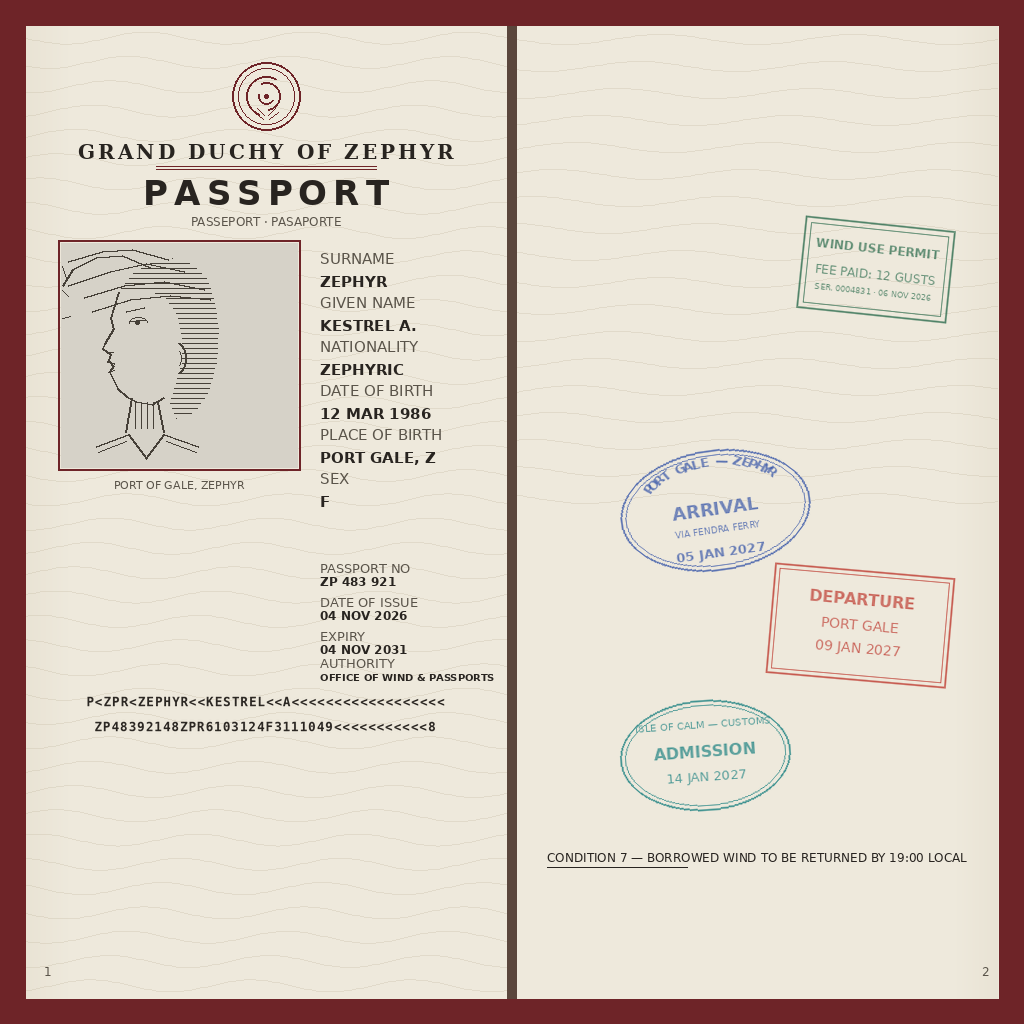
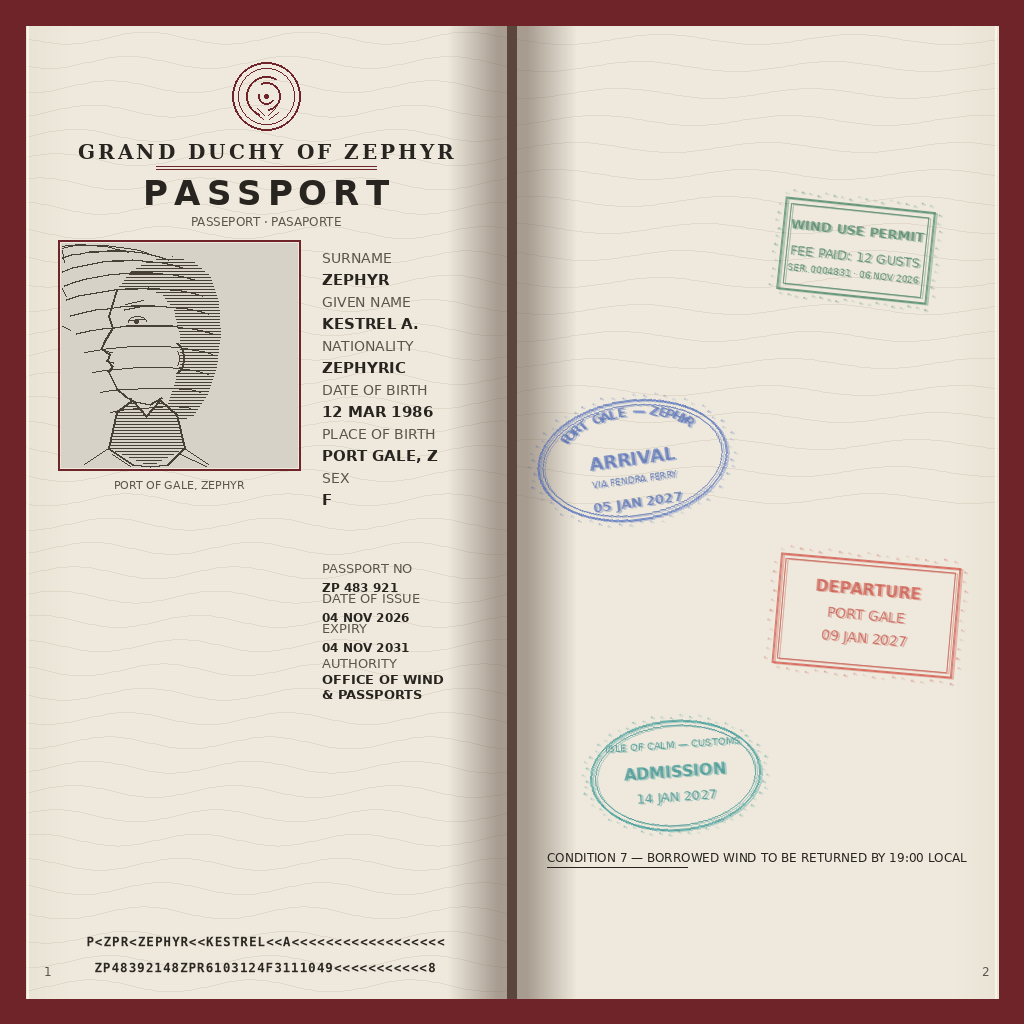
Round 2: stricter grid, engraved portrait, ink-textured stamps, open-book depth

diff --git a/gen_entry.py b/gen_entry.py
@@ -94,87 +94,119 @@ def draw_emblem(d):
         d.line([a, b], fill=MAROON, width=1)
 
 
-def draw_portrait(img):
-    d = ImageDraw.Draw(img)
+def quad_pts(p0, c, p1, n=12):
+    """Sample a quadratic Bezier curve (deterministic)."""
+    pts = []
+    for i in range(n + 1):
+        t = i / n
+        u = 1 - t
+        pts.append((u * u * p0[0] + 2 * u * t * c[0] + t * t * p1[0],
+                    u * u * p0[1] + 2 * u * t * c[1] + t * t * p1[1]))
+    return pts
 
-    # hair mass polygon: outer cranium curve, inner edge behind ear/nape
-    hair = [
-        (118, 292), (134, 272), (152, 262), (172, 258), (192, 264),
-        (206, 278), (214, 300), (218, 330), (216, 362), (208, 392),
-        (194, 412), (176, 418), (170, 402), (176, 382), (182, 362),
-        (182, 336), (176, 312), (164, 296), (146, 290), (128, 290),
-    ]
+
+def hatch_region(img, poly, y0, y1, spacing=3):
+    """Horizontal engraving hatch (1 px lines) clipped to poly."""
     mask = Image.new("L", (W, H), 0)
     md = ImageDraw.Draw(mask)
-    md.polygon(hair, fill=255)
+    md.polygon(poly, fill=255)
     hatch = Image.new("RGB", (W, H), P_BG)
     hd = ImageDraw.Draw(hatch)
-    y = 258
-    while y <= 424:
+    y = y0
+    while y <= y1:
         hd.line([(61, y), (297, y)], fill=P_INK, width=1)
-        y += 5
+        y += spacing
     img.paste(hatch, (0, 0), mask)
+
+
+def draw_portrait(img):
+    # hair mass: outer cranium curve, inner edge behind ear/nape
+    hair = [
+        (116, 290), (132, 270), (150, 260), (172, 256), (194, 262),
+        (210, 276), (218, 300), (220, 334), (216, 366), (206, 396),
+        (192, 416), (174, 422), (168, 404), (174, 384), (180, 364),
+        (180, 336), (174, 310), (162, 294), (144, 288), (126, 288),
+    ]
+    # high-collared windfarmer coat
+    collar = [
+        (116, 412), (132, 400), (146, 416), (160, 400), (176, 414),
+        (184, 448), (150, 466), (108, 448),
+    ]
+    hatch_region(img, hair, 256, 424, 3)
 
     d = ImageDraw.Draw(img)
     # face profile, facing left
     prof = [
-        (118, 292), (113, 308), (110, 318), (113, 329), (104, 344),
-        (102, 348), (110, 354), (108, 360), (113, 366), (109, 372),
-        (112, 378), (117, 388), (126, 396), (136, 401), (152, 404), (164, 397),
+        (116, 290), (111, 306), (108, 316), (112, 328), (103, 343),
+        (101, 348), (109, 354), (107, 360), (112, 366), (108, 372),
+        (111, 378), (116, 388), (125, 396), (135, 401), (150, 404), (162, 397),
     ]
     d.line(prof, fill=P_INK, width=2)
-
-    # brow and eye
-    d.line([(126, 311), (144, 307)], fill=P_INK, width=2)
-    d.line([(129, 321), (145, 319)], fill=P_INK, width=2)
-    d.arc((129, 317, 147, 327), start=160, end=360, fill=P_INK, width=1)
-    d.ellipse((135, 320, 139, 324), fill=P_INK)
-    # nostril and lips
-    d.line([(107, 352), (113, 352)], fill=P_INK, width=1)
-    d.line([(107, 361), (114, 363)], fill=P_INK, width=2)
-    d.line([(108, 372), (114, 370)], fill=P_INK, width=1)
+    # confident brow and eye
+    d.line([(124, 309), (144, 305)], fill=P_INK, width=2)
+    d.line([(125, 304), (143, 300)], fill=P_INK, width=1)
+    d.line([(128, 320), (144, 318)], fill=P_INK, width=2)
+    d.arc((128, 316, 146, 326), start=160, end=360, fill=P_INK, width=1)
+    d.ellipse((134, 319, 138, 323), fill=P_INK)
+    # nose line, nostril, lips
+    d.line([(106, 351), (112, 352)], fill=P_INK, width=1)
+    d.line([(106, 360), (113, 362)], fill=P_INK, width=2)
+    d.line([(107, 371), (113, 369)], fill=P_INK, width=1)
     # ear
-    d.arc((166, 342, 186, 374), start=-75, end=75, fill=P_INK, width=2)
-    d.arc((171, 349, 181, 367), start=-60, end=60, fill=P_INK, width=1)
-    # neck
-    d.line([(131, 398), (125, 432)], fill=P_INK, width=2)
-    d.line([(157, 402), (163, 432)], fill=P_INK, width=2)
-    for x in (135, 141, 147, 153):
-        d.line([(x, 402), (x, 428)], fill=P_INK, width=1)
-    # collar
-    d.line([(96, 446), (128, 434)], fill=P_INK, width=2)
-    d.line([(128, 434), (146, 458), (164, 434)], fill=P_INK, width=2)
-    d.line([(164, 434), (198, 446)], fill=P_INK, width=2)
-    d.line([(98, 452), (126, 441)], fill=P_INK, width=1)
-    d.line([(166, 441), (196, 452)], fill=P_INK, width=1)
+    d.arc((164, 342, 184, 374), start=-75, end=75, fill=P_INK, width=2)
+    d.arc((169, 349, 179, 367), start=-60, end=60, fill=P_INK, width=1)
+    # jaw-to-collar stubs, then collar hatching over them
+    d.line([(130, 398), (130, 402)], fill=P_INK, width=2)
+    d.line([(158, 399), (158, 402)], fill=P_INK, width=2)
+    hatch_region(img, collar, 400, 466, 3)
 
-    # wind-blown strands, flowing left
+    d = ImageDraw.Draw(img)
+    # collar outline and coat
+    d.line([(116, 412), (132, 400), (146, 416), (160, 400), (176, 414)], fill=P_INK, width=2)
+    d.line([(116, 412), (108, 448)], fill=P_INK, width=2)
+    d.line([(176, 414), (184, 448)], fill=P_INK, width=2)
+    d.line([(108, 448), (132, 464), (150, 466), (168, 464), (184, 448)], fill=P_INK, width=2)
+    d.line([(108, 448), (84, 464)], fill=P_INK, width=1)
+    d.line([(184, 448), (208, 464)], fill=P_INK, width=1)
+    d.line([(112, 454), (130, 466)], fill=P_INK, width=1)
+    d.line([(180, 454), (206, 466)], fill=P_INK, width=1)
+
+    # wind-swept hair: 12 curved strands blowing left
     strands = [
-        [(150, 268), (122, 256), (96, 258), (72, 270), (62, 286)],
-        [(168, 260), (132, 250), (102, 252), (68, 262)],
-        [(184, 272), (146, 264), (110, 272), (68, 286)],
-        [(204, 290), (164, 282), (124, 286), (84, 298)],
-        [(210, 300), (170, 296), (130, 300), (92, 312)],
+        ((168, 260), (118, 244), (62, 258), 2),
+        ((182, 268), (124, 252), (62, 272), 2),
+        ((194, 280), (132, 264), (64, 286), 2),
+        ((202, 296), (140, 280), (66, 300), 2),
+        ((208, 314), (148, 298), (70, 316), 2),
+        ((212, 334), (156, 318), (76, 334), 2),
+        ((212, 354), (162, 340), (84, 352), 1),
+        ((208, 374), (168, 362), (92, 372), 1),
+        ((200, 392), (170, 384), (100, 392), 1),
+        ((190, 408), (168, 404), (110, 412), 1),
+        ((150, 254), (104, 240), (62, 248), 1),
+        ((128, 252), (92, 242), (62, 246), 1),
     ]
-    for s in strands:
-        d.line(s, fill=P_INK, width=2)
-    for a, b in [((66, 278), (62, 266)), ((68, 296), (62, 290)), ((70, 316), (62, 318))]:
+    for p0, c, p1, wd in strands:
+        d.line(quad_pts(p0, c, p1), fill=P_INK, width=wd)
+    # flyaway wisps
+    for a, b in [((64, 262), (62, 250)), ((66, 296), (62, 288)), ((70, 330), (62, 326))]:
         d.line([a, b], fill=P_INK, width=1)
 
 
 def fee_stamp():
     layer = Image.new("RGBA", (190, 130), (0, 0, 0, 0))
     d = ImageDraw.Draw(layer)
-    c = GREEN + (170,)
+    c = GREEN + (255,)
     d.rectangle((10, 14, 160, 106), outline=c, width=2)   # 150x92
     d.rectangle((16, 20, 154, 100), outline=c, width=1)
     cx = 85
-    f1 = fit_font(d, "WIND USE PERMIT", 126, 16, "DejaVuSans-Bold.ttf")
+    f1 = fit_font(d, "WIND USE PERMIT", 134, 16, "DejaVuSans-Bold.ttf")
     ctext(d, cx, 32, "WIND USE PERMIT", f1, c)
-    f2 = fit_font(d, "FEE PAID: 12 GUSTS", 126, 14)
+    f2 = fit_font(d, "FEE PAID: 12 GUSTS", 134, 14)
     ctext(d, cx, 58, "FEE PAID: 12 GUSTS", f2, c)
-    f3 = fit_font(d, "SER. 0004831 \u00b7 06 NOV 2026", 126, 12)
+    f3 = fit_font(d, "SER. 0004831 \u00b7 06 NOV 2026", 134, 12)
     ctext(d, cx, 78, "SER. 0004831 \u00b7 06 NOV 2026", f3, c)
+    speckle_rect(layer, (10, 14, 160, 106), GREEN)
     return layer
 
 
@@ -197,7 +229,7 @@ def arc_text(layer, s, cx, cy, rx, ry, size, fill, a0, a1):
 def stamp_arrival():
     layer = Image.new("RGBA", (230, 160), (0, 0, 0, 0))
     d = ImageDraw.Draw(layer)
-    c = BLUE + (170,)
+    c = BLUE + (255,)
     cx, cy, rx, ry = 115, 80, 95, 60
     d.ellipse((cx - rx, cy - ry, cx + rx, cy + ry), outline=c, width=2)
     d.ellipse((cx - rx + 5, cy - ry + 5, cx + rx - 5, cy + ry - 5), outline=c, width=1)
@@ -205,26 +237,28 @@ def stamp_arrival():
     ctext(d, cx, 68, "ARRIVAL", fnt("DejaVuSans-Bold.ttf", 18), c)
     ctext(d, cx, 94, "VIA FENDRA FERRY", fnt("DejaVuSans.ttf", 9), c)
     ctext(d, cx, 114, "05 JAN 2027", fnt("DejaVuSans-Bold.ttf", 13), c)
+    speckle_ellipse(layer, cx, cy, rx, ry, BLUE)
     return layer
 
 
 def stamp_departure():
     layer = Image.new("RGBA", (200, 130), (0, 0, 0, 0))
     d = ImageDraw.Draw(layer)
-    c = RED + (170,)
+    c = RED + (255,)
     d.rectangle((10, 10, 190, 120), outline=c, width=2)   # 180x110
     d.rectangle((15, 15, 185, 115), outline=c, width=1)
     cx = 100
     ctext(d, cx, 30, "DEPARTURE", fnt("DejaVuSans-Bold.ttf", 16), c)
     ctext(d, cx, 57, "PORT GALE", fnt("DejaVuSans.ttf", 14), c)
     ctext(d, cx, 80, "09 JAN 2027", fnt("DejaVuSans.ttf", 14), c)
+    speckle_rect(layer, (10, 10, 190, 120), RED)
     return layer
 
 
 def stamp_admission():
     layer = Image.new("RGBA", (190, 130), (0, 0, 0, 0))
     d = ImageDraw.Draw(layer)
-    c = TEAL + (170,)
+    c = TEAL + (255,)
     cx, cy, rx, ry = 95, 65, 85, 55
     d.ellipse((cx - rx, cy - ry, cx + rx, cy + ry), outline=c, width=2)
     d.ellipse((cx - rx + 5, cy - ry + 5, cx + rx - 5, cy + ry - 5), outline=c, width=1)
@@ -232,14 +266,61 @@ def stamp_admission():
     ctext(d, cx, 28, "ISLE OF CALM \u2014 CUSTOMS", f1, c)
     ctext(d, cx, 52, "ADMISSION", fnt("DejaVuSans-Bold.ttf", 16), c)
     ctext(d, cx, 78, "14 JAN 2027", fnt("DejaVuSans.ttf", 13), c)
+    speckle_ellipse(layer, cx, cy, rx, ry, TEAL)
     return layer
 
 
-def paste_rot(main, layer, x, y, deg_cw):
+def fade_alpha(layer, alpha):
+    """Scale a layer's alpha channel to a target ink intensity."""
+    r, g, b, a = layer.split()
+    a2 = a.point(lambda v: int(round(v * alpha / 255)))
+    return Image.merge("RGBA", (r, g, b, a2))
+
+
+def paste_ink(main, layer, cx, cy, deg_cw):
+    """Two-pass stamping: alpha 160, then alpha 80 offset (+1.5, +1.0) px."""
     rot = layer.rotate(-deg_cw, resample=Image.BICUBIC, expand=True)
-    ox = (rot.width - layer.width) // 2
-    oy = (rot.height - layer.height) // 2
-    main.alpha_composite(rot, (x - ox, y - oy))
+    x = int(round(cx - rot.width / 2))
+    y = int(round(cy - rot.height / 2))
+    main.alpha_composite(fade_alpha(rot, 160), (x, y))
+    main.alpha_composite(fade_alpha(rot, 80), (x + 2, y + 1))
+
+
+def speckle_ellipse(layer, cx, cy, rx, ry, color):
+    """Deterministic ink speckle ring: 60 dots, alpha (i*37) % 80 + 40."""
+    d = ImageDraw.Draw(layer)
+    for i in range(60):
+        t = 2 * math.pi * i / 60
+        m = 1.04 + 0.015 * ((i * 13) % 5)
+        px = cx + rx * m * math.cos(t)
+        py = cy + ry * m * math.sin(t)
+        s = 2 if i % 2 == 0 else 1
+        al = (i * 37) % 80 + 40
+        d.ellipse((px - s / 2, py - s / 2, px + s / 2, py + s / 2), fill=color + (al,))
+
+
+def speckle_rect(layer, box, color):
+    """Deterministic ink speckle ring around a rect: 60 dots, 1-2 px."""
+    x0, y0, x1, y1 = box
+    d = ImageDraw.Draw(layer)
+    w = x1 - x0
+    h = y1 - y0
+    per = 2 * (w + h)
+    for i in range(60):
+        s = per * i / 60
+        if s < w:
+            px, py, ox, oy = x0 + s, y0, 0, -1
+        elif s < w + h:
+            px, py, ox, oy = x1, y0 + (s - w), 1, 0
+        elif s < 2 * w + h:
+            px, py, ox, oy = x1 - (s - w - h), y1, 0, 1
+        else:
+            px, py, ox, oy = x0, y1 - (s - 2 * w - h), -1, 0
+        off = 4 + (i * 11) % 4
+        s2 = 2 if i % 2 == 0 else 1
+        al = (i * 37) % 80 + 40
+        qx, qy = px + ox * off, py + oy * off
+        d.ellipse((qx - s2 / 2, qy - s2 / 2, qx + s2 / 2, qy + s2 / 2), fill=color + (al,))
 
 
 def render():
@@ -263,9 +344,25 @@ def render():
     guilloche(img, 26, 507, 26, 998, 40, 6.0, 3.0)
     guilloche(img, 517, 998, 26, 512, 18, 5.0, 2.5)
 
+    # open-book depth: 60 px gutter shadow on each side, darkest at the fold
+    gb = Image.new("RGBA", (W, H), (0, 0, 0, 0))
+    gdb = ImageDraw.Draw(gb)
+    for x in range(447, 507):
+        dist = 507 - x
+        a = 130 if dist <= 10 else int(130 * (60 - dist) / 50)
+        gdb.line([(x, 26), (x, 998)], fill=(100, 82, 72) + (a,))
+    for x in range(517, 577):
+        dist = x - 517
+        a = 130 if dist <= 10 else int(130 * (60 - dist) / 50)
+        gdb.line([(x, 26), (x, 998)], fill=(100, 82, 72) + (a,))
+    img.alpha_composite(gb)
+
     d = ImageDraw.Draw(img)
     # gutter between the two pages
     d.rectangle((507, 26, 516, 998), fill=GUTTER_C)
+    # 2 px highlight on each outer page edge
+    for x in (27, 28, 995, 996):
+        d.line([(x, 26), (x, 998)], fill=(248, 244, 234))
 
     # ---------- LEFT PAGE ----------
     draw_emblem(d)
@@ -290,36 +387,40 @@ def render():
         ("PLACE OF BIRTH", "PORT GALE, Z"),
         ("SEX", "F"),
     ]
-    fl = fnt("DejaVuSans.ttf", 15)
+    # data grid: strict column x=322, 14 px labels, 15 px bold values +7 px,
+    # uniform 44 px pitch, 18 px right margin
+    fl = fnt("DejaVuSans.ttf", 14)
     fb = fnt("DejaVuSans-Bold.ttf", 15)
     y = 250
     for lab, val in rows:
-        d.text((320, y), lab, font=fl, fill=LABEL_C)
-        d.text((320, y + 23), val, font=fb, fill=INK)
+        d.text((322, y), lab, font=fl, fill=LABEL_C)
+        d.text((322, y + 21), val, font=fb, fill=INK)
         y += 44
 
-    # passport block (label above value, compact rows, fits left of gutter)
+    # passport block: same column x=322, compact pitch, two-line authority
     fla = fnt("DejaVuSans.ttf", 13)
     fva = fnt("DejaVuSans-Bold.ttf", 12)
-    for y, (lab, val) in zip((560, 594, 628),
+    for y, (lab, val) in zip((560, 590, 620),
                              [("PASSPORT NO", "ZP 483 921"),
                               ("DATE OF ISSUE", "04 NOV 2026"),
                               ("EXPIRY", "04 NOV 2031")]):
-        d.text((320, y), lab, font=fla, fill=LABEL_C)
-        d.text((320, y + 14), val, font=fva, fill=INK)
+        d.text((322, y), lab, font=fla, fill=LABEL_C)
+        d.text((322, y + 20), val, font=fva, fill=INK)
     fa = fnt("DejaVuSans.ttf", 13)
-    fav = fit_font(d, "OFFICE OF WIND & PASSPORTS", 181, 13, "DejaVuSans-Bold.ttf")
-    d.text((320, 655), "AUTHORITY", font=fa, fill=LABEL_C)
-    d.text((320, 671), "OFFICE OF WIND & PASSPORTS", font=fav, fill=INK)
+    fva2 = fnt("DejaVuSans-Bold.ttf", 13)
+    d.text((322, 655), "AUTHORITY", font=fa, fill=LABEL_C)
+    d.text((322, 671), "OFFICE OF WIND", font=fva2, fill=INK)
+    d.text((322, 686), "& PASSPORTS", font=fva2, fill=INK)
 
-    # MRZ, two lines, 24px mono bold rendered then scaled to page width
+    # MRZ: both lines same size, centred, 20 px above the paper's bottom edge
     mrz_lines = [
         "P<ZPR<ZEPHYR<<KESTREL<<A<<<<<<<<<<<<<<<<<<",
         "ZP48392148ZPR6103124F3111049<<<<<<<<<<<8",
     ]
     fm = fnt("DejaVuSansMono-Bold.ttf", 24)
     probe = ImageDraw.Draw(Image.new("RGB", (8, 8)))
-    y0 = 691
+    scale = 0.52
+    strips = []
     for s in mrz_lines:
         adv = [probe.textlength(ch, font=fm) + 2 for ch in s]
         sw = int(sum(adv)) + 2
@@ -329,21 +430,23 @@ def render():
         for ch, a in zip(s, adv):
             sdd.text((x, 6), ch, font=fm, fill=INK + (255,))
             x += a
-        scale = 0.52
-        strip = strip.resize((int(round(sw * scale)), int(round(40 * scale))), Image.LANCZOS)
-        img.alpha_composite(strip, (int(round(266 - strip.width / 2)), y0))
-        y0 += strip.height + 4
+        strips.append(strip.resize((int(round(sw * scale)), int(round(40 * scale))), Image.LANCZOS))
+    h = strips[0].height
+    y0 = 978 - 2 * h - 5
+    for st in strips:
+        img.alpha_composite(st, (int(round(266 - st.width / 2)), y0))
+        y0 += h + 5
 
     # page number 1
     d.text((44, 964), "1", font=fnt("DejaVuSans.ttf", 12), fill=LABEL_C)
 
     # ---------- RIGHT PAGE ----------
-    # fee stamp, rotated 6 deg clockwise
-    paste_rot(img, fee_stamp(), 790, 210, 6)
-    # travel stamps, in ink order a, b, c
-    paste_rot(img, stamp_arrival(), 600, 430, -8)
-    paste_rot(img, stamp_departure(), 760, 560, 5)
-    paste_rot(img, stamp_admission(), 610, 690, -4)
+    # fee stamp, rotated 6 deg clockwise (top-right column)
+    paste_ink(img, fee_stamp(), 865, 256, 6)
+    # travel stamps: loose 3-column flow, >= 30 px gutters, ink order a, b, c
+    paste_ink(img, stamp_arrival(), 632, 460, -8)
+    paste_ink(img, stamp_departure(), 866, 615, 5)
+    paste_ink(img, stamp_admission(), 675, 775, -4)
 
     # visa condition line, centred on the right page
     cond = "CONDITION 7 \u2014 BORROWED WIND TO BE RETURNED BY 19:00 LOCAL"
